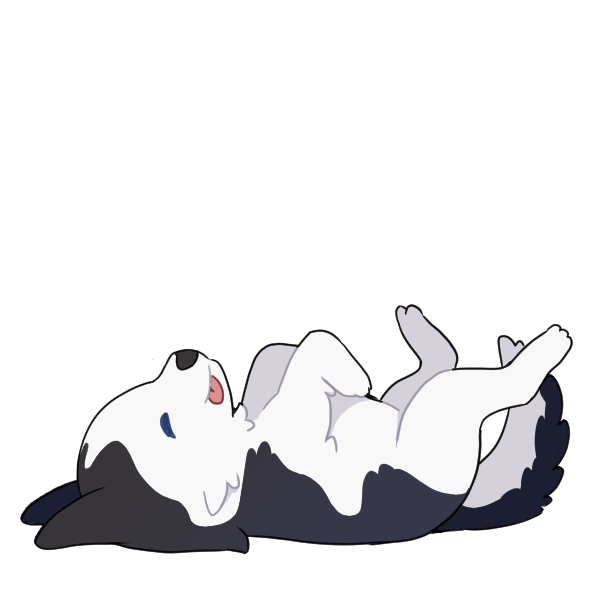
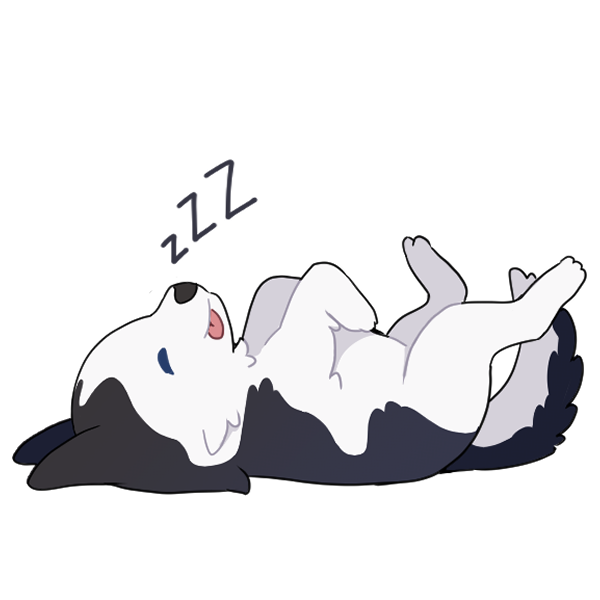
time changes for day/night mode

diff --git a/src/components/Home.js b/src/components/Home.js
@@ -48,7 +48,7 @@ export function HomeScreen() {
             let newValue = snapshot.val(); //extract the value from snapshot
             setPet(newValue);
             setTalkPet("talk_" + newValue);
-            if(todayDate.getHours() > 20){
+            if(todayDate.getHours() > 20 || todayDate.getHours() < 5){
                 setPet("sleep_" + newValue);
                 setDayCycle(false);
             }
@@ -62,41 +62,41 @@ export function HomeScreen() {
     function handleClick(event){
         let mood = event.target.value;
         if(mood === "frustrated"){
-            if(todayDate.getHours() > 20){
+            if(todayDate.getHours() > 20 || todayDate.getHours() < 5){
                 setResponse("Get some rest! You'll feel better tomorrow!");
             } else {
                 setResponse("Hang in there! You got it!");
             }
         }
         if (mood === "sad") {
-            if(todayDate.getHours() > 20){
+            if(todayDate.getHours() > 20 || todayDate.getHours() < 5){
                 setResponse("Sleep on it! Tomorrow's a new day!");
             } else {
                 setResponse("I hope you get better soon");
             }
         }
         if (mood === "normal") {
-            if(todayDate.getHours() > 20){
+            if(todayDate.getHours() > 20 || todayDate.getHours() < 5){
                 setResponse("When in doubt, sleep!");
             } else {
                 setResponse("What a peaceful day!");
             }
         }
         if (mood === "notbad") {
-            if(todayDate.getHours() > 20){
+            if(todayDate.getHours() > 20 || todayDate.getHours() < 5){
                 setResponse("Sweet Dreams!");
             } else {
                 setResponse("Wonderful!");
             }
         }
         if (mood === "happy") {
-            if(todayDate.getHours() > 20){
+            if(todayDate.getHours() > 20 || todayDate.getHours() < 5){
                 setResponse("ZZZZzzzzz......");
             } else {
                 setResponse("I'm happy to hear that!");
             }
         }
-        if(todayDate.getHours() < 20){
+        if(todayDate.getHours() < 20 && todayDate.getHours() > 5){
             setPet(currTalkPet);
             setTimeout(function(){
                 setPet(currPet);

diff --git a/src/components/DailyPlan.js b/src/components/DailyPlan.js
@@ -71,7 +71,7 @@ export function DailyScreen() {
             let newValue = snapshot.val(); //extract the value from snapshot
             setPet(newValue);
             setTalkPet("talk_" + newValue);
-            if(todayDate.getHours() > 20){
+            if(todayDate.getHours() > 20 || todayDate.getHours() < 5){
                 setPet("sleep_" + newValue);
                 setDayCycle(false);
             }
@@ -86,7 +86,7 @@ export function DailyScreen() {
         const sentences = ["Well Done!", "Good Job!", "I'm impressed!", "Superb!", "Keep it Up!"]  
         let res = sentences[Math.floor((sentences.length-1) * Math.random())]
         setResponse(res)
-        if(todayDate.getHours() < 20){
+        if(todayDate.getHours() < 20 && todayDate.getHours() > 5){
             setPet(currTalkPet);
             setTimeout(function(){
                 setPet(currPet);

diff --git a/src/components/Esa.js b/src/components/Esa.js
@@ -23,7 +23,7 @@ export function EsaScreen() {
             let newValue = snapshot.val(); //extract the value from snapshot
             setPet(newValue);
             setTalkPet("talk_" + newValue);
-            if(todayDate.getHours() > 20){
+            if(todayDate.getHours() > 20 || todayDate.getHours() < 5){
                 setPet("sleep_" + newValue);
                 setDayCycle(false);
             }
@@ -75,7 +75,7 @@ export function EsaScreen() {
                 </div>
             )
         }
-        if(todayDate.getHours() < 20){
+        if(todayDate.getHours() < 20 && todayDate.getHours() > 5){
             setPet(currTalkPet);
             setTimeout(function(){
                 setPet(currPet);

diff --git a/src/components/About.js b/src/components/About.js
@@ -68,7 +68,9 @@ export function AboutScreen() {
                     <p>Full-Stack Dev</p>
                 </div>
             </div>
-
+            <div>
+                <p>☆ Virtual Companions illustrated by <a href='https://www.instagram.com/i.hopeless.s/'>i.hopeless.s</a> on Instagram ☆</p>
+            </div>
             <div className="spacer"></div>
             <NavBar />
         </section>

diff --git a/src/components/Pets.js b/src/components/Pets.js
@@ -12,7 +12,7 @@ export function PetScreen() {
     const todayDate = new Date();
     const [dayCycle, setDayCycle] = React.useState(true);
     useEffect(() => {
-        if(todayDate.getHours() > 20){
+        if(todayDate.getHours() > 20 || todayDate.getHours() < 5){
             setDayCycle(false);
         }
       }, []);
